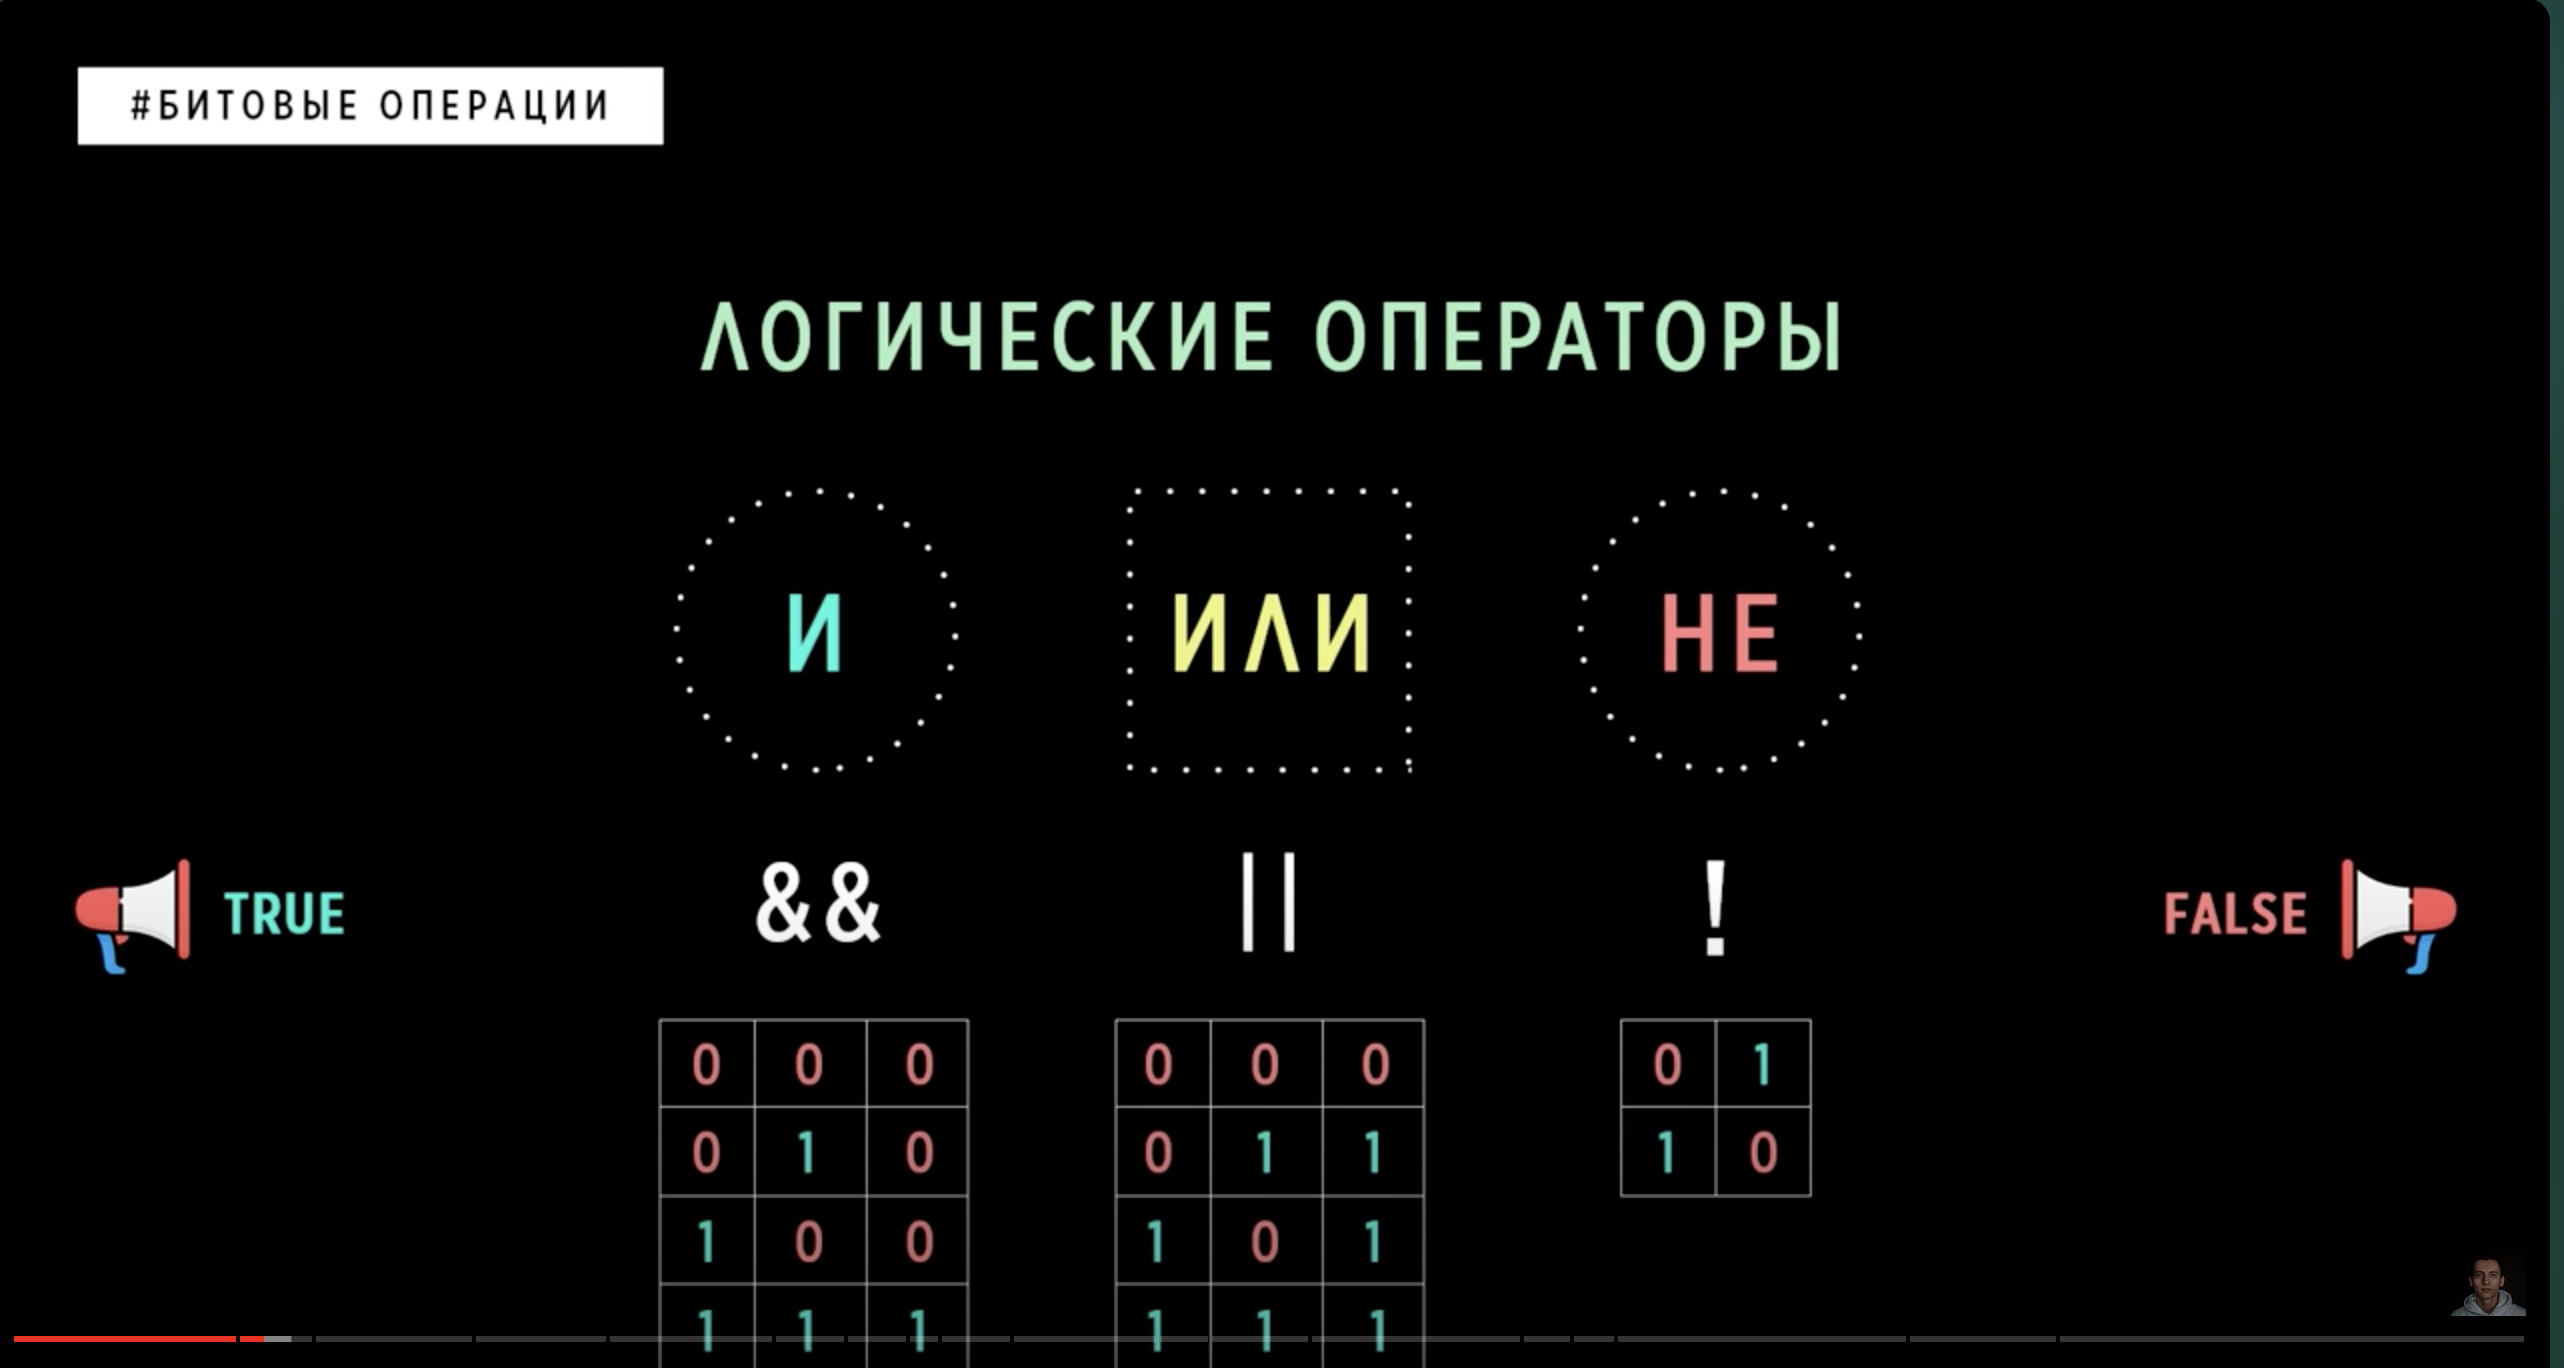
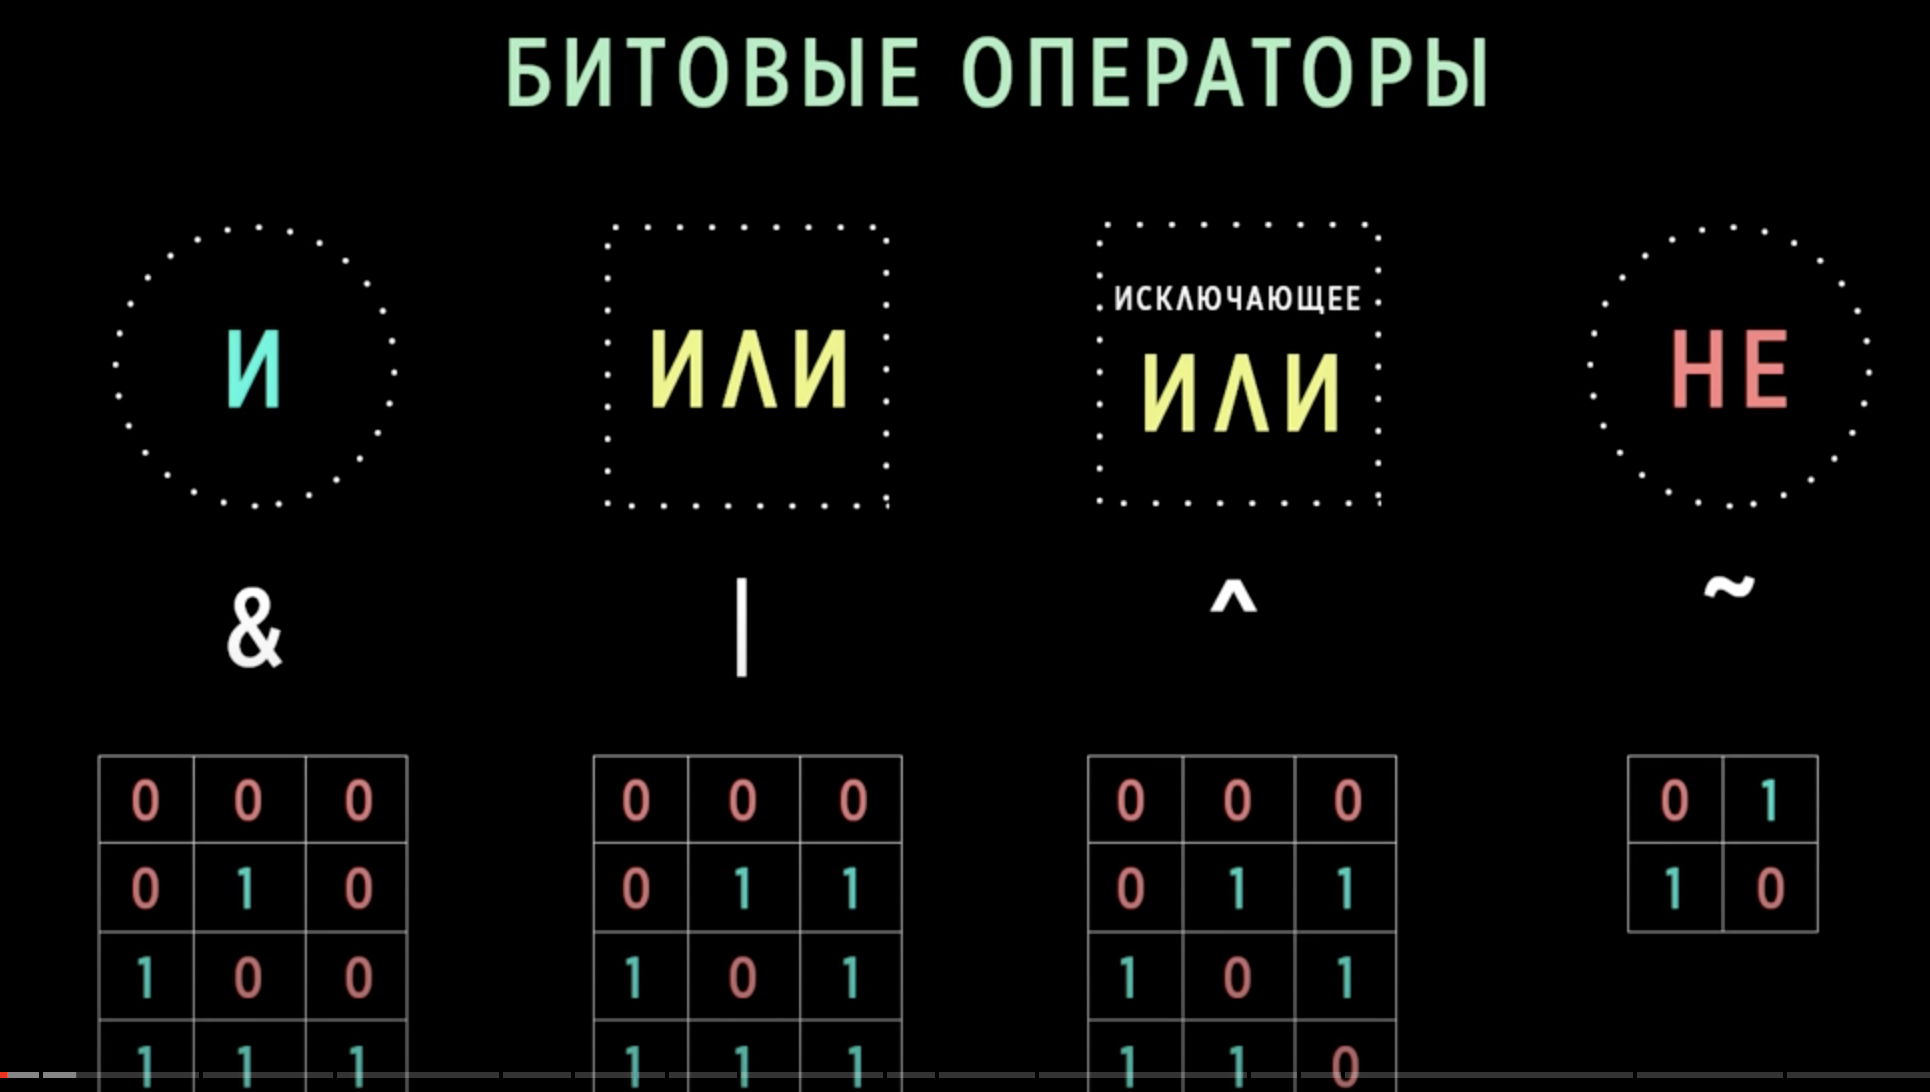
add scrin

diff --git a/about_decimal.md b/about_decimal.md
@@ -25,10 +25,23 @@ Decimal - число с плавающей точкой, которое може
 ![s](screen/числа_с_плав_точкой.png)
 
 - 4. Побитовые операции.
+
 ![s](screen/биты.png)
 
+![s](screen/и.png)
+
+![s](screen/или.png)
+
+![s](screen/искл_или.png)
+
+
 - 5. Битовые сдвиги.
+
 ![s](screen/бит_сдвиги.png)
+
+![s](screen/битовый_сдвиг.png)
+
+![s](screen/пример_реализации.png)
 
 #### Полезные ссылки 
 
